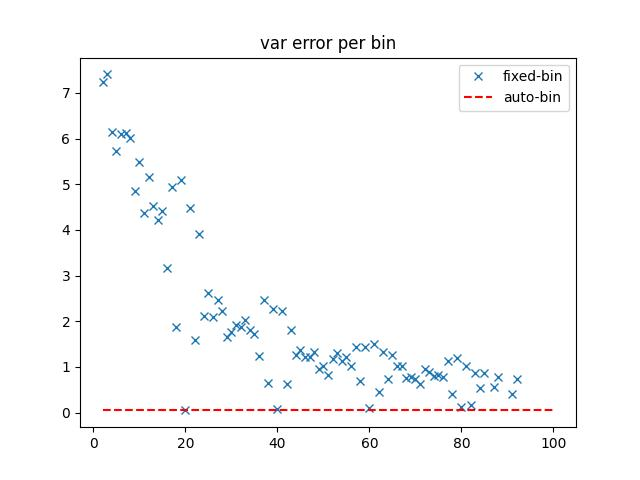
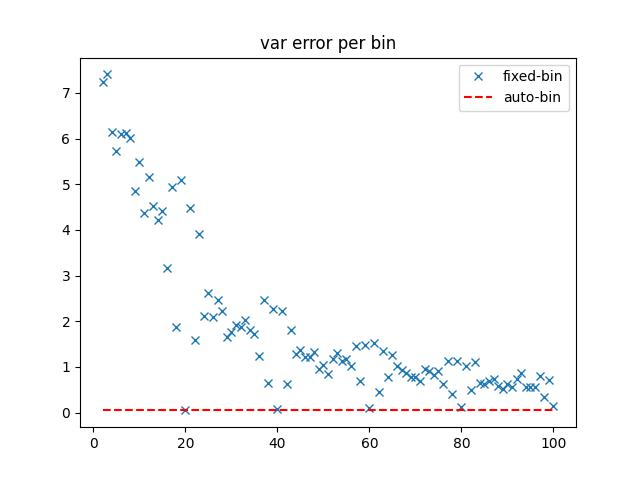
Fixed-size bins work with empty bins

Changed region(s): [[0.5, 0.6875, 0.875, 0.875], [0.4375, 0.7188, 0.4688, 0.75]]

diff --git a/examples/utils.py b/examples/utils.py
@@ -76,7 +76,10 @@ def measure_fixed_error(dale_gt, gen_dist, model, axis_limits, K_list, nof_itera
                            model=model.predict,
                            model_jac=model.jacobian,
                            axis_limits=axis_limits)
-            alg_params = {"bin_method" : "fixed", "nof_bins" : k, "min_points_per_bin": 2}
+            alg_params = {"bin_method" : "fixed",
+                          "nof_bins" : k,
+                          "min_points_per_bin": 2}
+
             try:
                 dale.fit(features=[0], alg_params=alg_params)
                 res_err, mu_err, var_err = compare(dale_gt, dale)
@@ -84,6 +87,7 @@ def measure_fixed_error(dale_gt, gen_dist, model, axis_limits, K_list, nof_itera
                 mu_tmp.append(mu_err)
                 var_tmp.append(var_err)
             except:
+                print("aek")
                 pass
 
         rho_mean.append(np.mean(rho_tmp))

diff --git a/feature_effect/helpers.py b/feature_effect/helpers.py
@@ -51,4 +51,9 @@ def prep_dale_fit_params(par: dict):
     else:
         par["min_points_per_bin"] = 10
 
+    if "enforce_bin_creation" in par.keys():
+        assert type(par["enforce_bin_creation"]) == bool
+    else:
+        par["enforce_bin_creation"] = True
+
     return par
